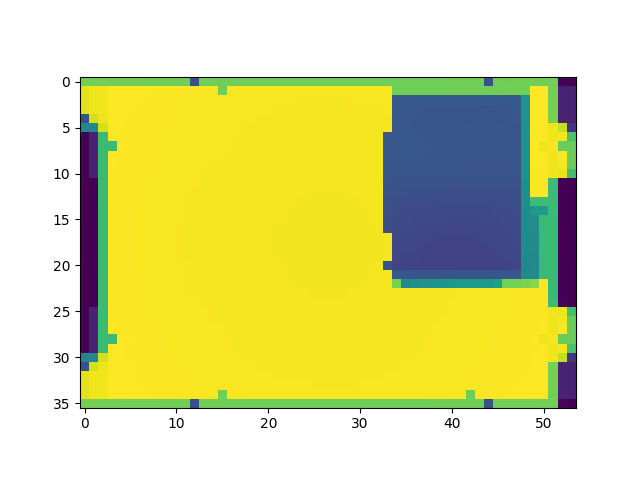
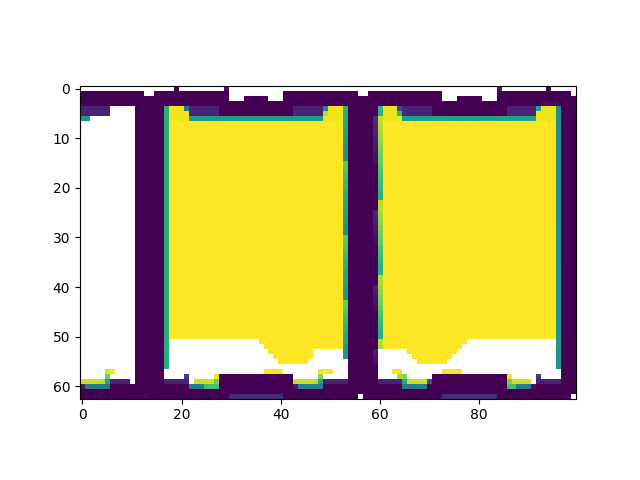
feat: Add new camera visualization script and update environment configurations
- Introduced `camera_placement_vis.py` for visualizing camera placements in the Isaac Lab environment.
- Added new binary images: `depth.png`, `sensor.png`, and `orthographic_image.png`.
- Updated `PackDepthCameraSceneCfg` to include RGB data type and adjusted camera parameters for improved scene configuration.
- Reduced the number of objects per environment to enhance simulation performance.

diff --git a/scripts/camera_placement_vis.py b/scripts/camera_placement_vis.py
@@ -1,0 +1,196 @@
+# Copyright (c) 2022-2025, The Isaac Lab Project Developers (https://github.com/isaac-sim/IsaacLab/blob/main/CONTRIBUTORS.md).
+# All rights reserved.
+#
+# SPDX-License-Identifier: BSD-3-Clause
+
+# Copyright (c) 2022-2025, The Isaac Lab Project Developers.
+# All rights reserved.
+#
+# SPDX-License-Identifier: BSD-3-Clause
+
+"""Script to run an environment with zero action agent."""
+
+"""Launch Isaac Sim Simulator first."""
+
+import argparse
+
+from isaaclab.app import AppLauncher
+
+# add argparse arguments
+parser = argparse.ArgumentParser(description="Zero agent for Isaac Lab environments.")
+parser.add_argument(
+    "--disable_fabric", action="store_true", default=False, help="Disable fabric and use USD I/O operations."
+)
+parser.add_argument("--num_envs", type=int, default=None, help="Number of environments to simulate.")
+parser.add_argument("--task", type=str, default=None, help="Name of the task.")
+# append AppLauncher cli args
+AppLauncher.add_app_launcher_args(parser)
+# parse the arguments
+args_cli = parser.parse_args()
+
+# launch omniverse app
+app_launcher = AppLauncher(args_cli)
+simulation_app = app_launcher.app
+
+"""Rest everything follows."""
+
+import gymnasium as gym
+import isaaclab_tasks  # noqa: F401
+import torch
+import tote_consolidation.tasks  # noqa: F401
+from isaaclab_tasks.utils import parse_env_cfg
+import matplotlib.pyplot as plt
+import isaaclab.utils.math as math_utils
+from typing import Tuple
+import numpy as np
+
+def depth_to_heightmap(depth_img, K, cam_T_world, grid_res=0.01, x_crop_bounds=None, y_crop_bounds=None, z_crop_bounds=None):
+    """
+    depth_img: (H, W) perspective depth in meters (distance along camera ray)
+    K: (3, 3) intrinsics
+    cam_T_world: (4, 4) camera-to-world matrix  [R|t] that maps camera coords -> world coords
+    grid_res: meters per pixel in the output heightmap
+    x_crop_bounds: tuple (xmin, xmax) to crop the world X coordinates
+    y_crop_bounds: tuple (ymin, ymax) to crop the world Y coordinates
+    z_crop_bounds: tuple (zmin, zmax) to crop the world Z coordinates
+    """
+    H, W = depth_img.shape
+    fx, fy = K[0, 0], K[1, 1]
+    cx, cy = K[0, 2], K[1, 2]
+
+    # 1) Build per-pixel ray in camera coords: r = K^{-1} [u, v, 1]^T (not unit yet)
+    u, v = np.meshgrid(np.arange(W, dtype=np.float32), np.arange(H, dtype=np.float32))
+    x = (u - cx) / fx
+    y = (v - cy) / fy
+    # Ray direction (not normalized): [x, y, 1]
+    # For perspective depth d_ray (distance along the ray),
+    # the 3D point in camera coords is:
+    #    P_cam = (d_ray / ||[x, y, 1]||) * [x, y, 1]
+    # This is the key fix vs. your code.
+    ray_norm = np.sqrt(x*x + y*y + 1.0)
+    d_ray = depth_img.astype(np.float32)
+    scale = (d_ray / ray_norm)  # (H, W)
+
+    Xc = x * scale
+    Yc = y * scale
+    Zc = 1.0 * scale
+
+    # 2) Transform to world coords
+    Pc = np.stack([Xc, Yc, Zc, np.ones_like(Zc)], axis=-1).reshape(-1, 4)  # (H*W, 4)
+    Pw = (Pc @ cam_T_world.T)[:, :3]  # (H*W, 3)
+    xw, yw, zw = Pw[:, 0], Pw[:, 1], Pw[:, 2]
+
+    # Print min and max points in world coord of each axis
+    print(f"World X-axis: min={xw.min():.3f}, max={xw.max():.3f}")
+    print(f"World Y-axis: min={yw.min():.3f}, max={yw.max():.3f}")
+    print(f"World Z-axis: min={zw.min():.3f}, max={zw.max():.3f}")
+
+    # Apply crop bounds if provided
+    if x_crop_bounds is not None:
+        mask = (xw >= x_crop_bounds[0]) & (xw <= x_crop_bounds[1])
+        xw, yw, zw = xw[mask], yw[mask], zw[mask]
+    
+    if y_crop_bounds is not None:
+        mask = (yw >= y_crop_bounds[0]) & (yw <= y_crop_bounds[1])
+        xw, yw, zw = xw[mask], yw[mask], zw[mask]
+
+    if z_crop_bounds is not None:
+        mask = (zw >= z_crop_bounds[0]) & (zw <= z_crop_bounds[1])
+        xw, yw, zw = xw[mask], yw[mask], zw[mask]
+
+    # 3) Bin into a top-down XY grid, keeping min world-Z per cell
+    xmin, xmax = float(xw.min()), float(xw.max())
+    ymin, ymax = float(yw.min()), float(yw.max())
+    # Avoid zero-size bounds
+    if xmax - xmin < 1e-6: xmax += 1e-3
+    if ymax - ymin < 1e-6: ymax += 1e-3
+
+    GW = int(np.ceil((xmax - xmin) / grid_res))
+    GH = int(np.ceil((ymax - ymin) / grid_res))
+    heightmap = np.full((GW, GH), np.nan, dtype=np.float32)
+
+    gx = np.clip(((xw - xmin) / grid_res).astype(np.int32), 0, GW - 1)
+    gy = np.clip(((yw - ymin) / grid_res).astype(np.int32), 0, GH - 1)
+    # Flip gx to correct front-to-back orientation
+    gx = GW - 1 - gx
+    # vectorized "min per cell"
+    flat_idx = gx * GH + gy
+    # Keep lowest world-Z per cell
+    # Use argsort to reduce then take first occurrence per index
+    order = np.argsort(flat_idx, kind="mergesort")
+    flat_idx_sorted = flat_idx[order]
+    zw_sorted = zw[order]
+
+    # find segment ends (last index for each unique cell)
+    uniq, last_idx = np.unique(flat_idx_sorted, return_index=False, return_counts=True)
+    last_idx = np.cumsum(last_idx) - 1  # last occurrence positions
+    # min within each segment
+    # we can do a segmented min by scanning; for simplicity, use numpy grouping via split
+    # but a faster way:
+    min_per_cell = np.full_like(uniq, np.inf, dtype=np.float32)
+    start = 0
+    for i, end in enumerate(last_idx):
+        seg = zw_sorted[start:end+1]
+        min_per_cell[i] = np.min(seg)
+        start = end + 1
+
+    # write back - convert linear indices back to 2D coordinates for proper assignment
+    gx_uniq = uniq // GH
+    gy_uniq = uniq % GH
+    heightmap[gx_uniq, gy_uniq] = min_per_cell
+
+    return heightmap
+
+
+def main():
+    """Zero actions agent with Isaac Lab environment."""
+    # parse configuration
+    env_cfg = parse_env_cfg(
+        args_cli.task, device=args_cli.device, num_envs=args_cli.num_envs, use_fabric=not args_cli.disable_fabric
+    )
+    # create environment
+    env = gym.make(args_cli.task, cfg=env_cfg)
+
+    # print info (this is vectorized environment)
+    print(f"[INFO]: Gym observation space: {env.observation_space}")
+    print(f"[INFO]: Gym action space: {env.action_space}")
+    # reset environment
+    env.reset()
+    # simulate environment
+    while simulation_app.is_running():
+        # run everything in inference mode
+        with torch.inference_mode():
+            # compute zero actions
+            actions = torch.zeros(env.action_space.shape, device=env.unwrapped.device)
+            # apply actions
+            obs, reward, terminated, truncated, info = env.step(actions)
+            plt.imshow(obs["sensor"][0, :, :, 0].cpu().numpy())
+            plt.savefig("depth.png")
+            plt.imshow(obs["sensor"][0, :, :, 1:4].cpu().numpy())
+            plt.savefig("sensor.png")
+            # depth_image = obs["sensor"][:, :, :, 0]
+            # extrinsics_pos_w = env.unwrapped.scene.sensors['tiled_camera'].data.pos_w # (num_envs, 3)
+            # extrinsics_pos_w = extrinsics_pos_w - env.unwrapped.scene.env_origins # (num_envs, 3)
+            # extrinsics_quat_w_world = torch.tensor([-0.69035, -0.15305, -0.15305, -0.69035], device=env.unwrapped.device).repeat(env.unwrapped.num_envs, 1) # (num_envs, 4)
+            # # Create extrinsics matrix from position and quaternion
+            # extrinsics_mat_w = torch.eye(4, device=env.unwrapped.device).repeat(env.unwrapped.num_envs, 1, 1)
+            # extrinsics_mat_w[:, :3, :3] = math_utils.matrix_from_quat(extrinsics_quat_w_world)
+            # extrinsics_mat_w[:, :3, 3] = extrinsics_pos_w
+            # heightmap = depth_to_heightmap(depth_image[0].cpu().numpy().squeeze(), env.unwrapped.scene.sensors['tiled_camera'].data.intrinsic_matrices[0].cpu().numpy(), extrinsics_mat_w[0].cpu().numpy(), 
+            # grid_res=0.01,
+            # x_crop_bounds=(0.14, 0.8), 
+            # y_crop_bounds=(-1.0, 0.2),
+            # z_crop_bounds=(1.4, 1.94))
+            # plt.clf()
+            # plt.imshow(heightmap)
+            # plt.savefig("heightmap.png")
+
+    # close the simulator
+    env.close()
+
+
+if __name__ == "__main__":
+    # run the main function
+    main()
+    # close sim app
+    simulation_app.close()

diff --git a/source/tote_consolidation/tote_consolidation/tasks/manager_based/pack/pack_camera_env_cfg.py b/source/tote_consolidation/tote_consolidation/tasks/manager_based/pack/pack_camera_env_cfg.py
@@ -33,20 +33,38 @@ class PackRGBCameraSceneCfg(PackSceneCfg):
         height=37,
     )
 
+# for totes
+# @configclass
+# class PackDepthCameraSceneCfg(PackSceneCfg):
+#     """Configuration for the scene with a robotic arm."""
+#     tiled_camera: TiledCameraCfg = TiledCameraCfg(
+#         prim_path="{ENV_REGEX_NS}/Camera",
+#         offset=TiledCameraCfg.OffsetCfg(pos=(0., -0.43, 0.97), rot=(0.69035, 0.15305, -0.15305, -0.69035), convention="opengl"),
+#         data_types=["distance_to_camera", "rgb"],
+#         spawn=sim_utils.PinholeCameraCfg(
+#             focal_length=5.05, focus_distance=2.5, horizontal_aperture=10.24, clipping_range=(0.1, 21.0)
+#         ),
+#         width=1024,
+#         height=1024,
+#         debug_vis=True,
+#     )
+
 
 @configclass
 class PackDepthCameraSceneCfg(PackSceneCfg):
     """Configuration for the scene with a robotic arm."""
     tiled_camera: TiledCameraCfg = TiledCameraCfg(
         prim_path="{ENV_REGEX_NS}/Camera",
-        offset=TiledCameraCfg.OffsetCfg(pos=(0.45, -0.645, 20.0), rot=(0.0, 0.0, 0.0, -1.0), convention="opengl"),
-        data_types=["distance_to_camera"],
+        offset=TiledCameraCfg.OffsetCfg(pos=(0., 0., 0.38), rot=(0.56472, 0.42555, -0.42555, -0.56472), convention="opengl"),
+        data_types=["distance_to_camera", "rgb"],
         spawn=sim_utils.PinholeCameraCfg(
-            focal_length=810.0, focus_distance=400.0, horizontal_aperture=20.955, clipping_range=(0.1, 21.0)
+            focal_length=5.05, focus_distance=2.5, horizontal_aperture=10.24, clipping_range=(0.1, 21.0)
         ),
-        width=52,
-        height=37,
+        width=1024,
+        height=1024,
+        debug_vis=True,
     )
+
 
 
 @configclass
@@ -86,7 +104,9 @@ class DepthObservationsCfg:
         image = ObsTerm(
             func=mdp.image, params={"sensor_cfg": SceneEntityCfg("tiled_camera"), "data_type": "distance_to_camera"}
         )
-
+        rgb = ObsTerm(
+            func=mdp.image, params={"sensor_cfg": SceneEntityCfg("tiled_camera"), "data_type": "rgb"}
+        )
     # observation groups
     policy: PolicyCfg = PolicyCfg()
     sensor: SensorCfg = SensorCfg()

diff --git a/source/tote_consolidation/tote_consolidation/tasks/manager_based/pack/pack_env_cfg.py b/source/tote_consolidation/tote_consolidation/tasks/manager_based/pack/pack_env_cfg.py
@@ -69,8 +69,8 @@ for usd_file in all_usd_files:
     if basename[:3] in include_ids:
         usd_paths.append(usd_file)
 
-num_object_per_env = 60
-num_objects_to_reserve = 60
+num_object_per_env = 6
+num_objects_to_reserve = 6
 
 # Spacing between totes
 tote_spacing = 0.43  # width of tote + gap between totes
